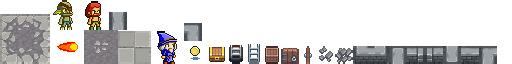
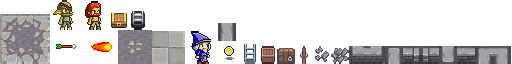
Attacks do damage but are not removed

Changed region(s): [[0.0938, 0.1562, 1.0, 1.0]]

diff --git a/core/src/com/mygdx/game/attacks/AttackEnemy.java b/core/src/com/mygdx/game/attacks/AttackEnemy.java
@@ -1,0 +1,123 @@
+package com.mygdx.game.attacks;
+
+import com.badlogic.gdx.graphics.g2d.SpriteBatch;
+import com.badlogic.gdx.graphics.g2d.TextureRegion;
+import com.badlogic.gdx.math.Vector2;
+import com.badlogic.gdx.physics.box2d.BodyDef;
+import com.badlogic.gdx.physics.box2d.CircleShape;
+import com.badlogic.gdx.physics.box2d.FixtureDef;
+import com.badlogic.gdx.physics.box2d.BodyDef.BodyType;
+import com.mygdx.game.WorldController;
+import com.mygdx.game.objects.AbstractGameObject;
+import com.mygdx.game.objects.EnemyRanged;
+import com.mygdx.game.utils.Constants;
+
+public class AttackEnemy extends AbstractGameObject
+{
+	private float tarX, tarY;
+	private EnemyRanged attacker;
+	private float rotation;
+	private Vector2 target;
+	
+	public AttackEnemy(TextureRegion img, float tarX, float tarY, EnemyRanged attacker) 
+	{
+		super(img);
+		body.getWorld().destroyBody(body);
+		
+		this.tarX = tarX - attacker.body.getPosition().x;
+		this.tarY = tarY - attacker.body.getPosition().y;
+		this.attacker = attacker;
+		
+		BodyDef bodyDef = new BodyDef();
+		bodyDef.type = BodyType.DynamicBody;
+		bodyDef.position.set(new Vector2(0, 0));
+		
+		body = WorldController.b2dWorld.createBody(bodyDef);
+		
+		CircleShape circle = new CircleShape();
+		circle.setRadius(.2f);
+		
+		FixtureDef fixtureDef = new FixtureDef();
+		fixtureDef.shape = circle;
+		fixtureDef.isSensor = true;
+		
+		body.createFixture(fixtureDef);
+		
+		body.setUserData(this);
+		
+		circle.dispose();
+		
+		rotation = findRotation();
+		target = findTarget();
+		
+		body.setTransform(attacker.body.getPosition(), 1);
+		
+		body.setLinearVelocity(target);
+	}
+
+	@Override
+	public void render(SpriteBatch batch)
+	{
+		batch.draw(reg, body.getPosition().x - Constants.OFFSET, body.getPosition().y - Constants.OFFSET, 0.5f, 0.5f, 1, 1, 1, 1, rotation, false);
+	}
+	
+	/**
+	 * Finds the angle of rotation for the projectile
+	 * @return
+	 */
+	private float findRotation()
+	{
+		//conditionals for all quadrants and axis
+		if(tarX > 0 && tarY > 0)
+		{
+			rotation = (float) Math.atan((tarY/tarX));
+			rotation = (float) ((rotation*180)/Math.PI);
+		}
+		else if(tarX < 0 && tarY > 0)
+		{
+			rotation = (float) Math.atan((tarY/tarX));
+			rotation = (float) ((rotation*180)/Math.PI);
+			rotation = 180 - Math.abs(rotation);
+		}
+		else if(tarX < 0 && tarY < 0)
+		{
+			rotation = (float) Math.atan((tarY/tarX));
+			rotation = (float) ((rotation*180)/Math.PI);
+			rotation = 180 + Math.abs(rotation);
+		}
+		else if(tarX > 0 && tarY < 0)
+		{
+			rotation = (float) Math.atan((tarY/tarX));
+			rotation = (float) ((rotation*180)/Math.PI);
+			rotation = 90 - Math.abs(rotation);
+			rotation = 270 + rotation;
+		}
+		else if(tarX > 0 && tarY == 0)
+			rotation = 0;
+		else if(tarX == 0 && tarY > 0)
+			rotation = 90;
+		else if(tarX < 0 && tarY == 0)
+			rotation =  180;
+		else if(tarX == 0 && tarY < 0)
+			rotation = 270;
+		
+		return (rotation - 90);
+	}
+	
+	/**
+	 * Finds the velocity vector for the projectile
+	 * @return
+	 */
+	private Vector2 findTarget() 
+	{
+		Vector2 tempVector = new Vector2(1,1);
+		tempVector.setLength(Constants.RANGEDSPEED); //TODO make so it can be changed when level difficulty increases
+		tempVector.setAngle(rotation + 90);
+		return tempVector;
+	}
+	
+	public float genDamage()
+	{
+		return Constants.RANGEDDAMAGE; //TODO make so it can be changed when level difficulty increases
+	}
+}

diff --git a/core/src/com/mygdx/game/WorldController.java b/core/src/com/mygdx/game/WorldController.java
@@ -18,6 +18,7 @@ import com.badlogic.gdx.physics.box2d.World;
 import com.badlogic.gdx.utils.Array;
 import com.badlogic.gdx.InputAdapter;
 import com.mygdx.game.attacks.Attack;
+import com.mygdx.game.attacks.AttackEnemy;
 import com.mygdx.game.objects.*;
 import com.mygdx.game.utils.CameraHelper;
 import com.mygdx.game.utils.Constants;
@@ -319,7 +320,7 @@ public class WorldController extends InputAdapter implements ContactListener
 		//collisions for player attacks
 		if(contact.getFixtureA().getBody().getUserData() == activeRoom.player || contact.getFixtureB().getBody().getUserData() == activeRoom.player)
 		{
-			
+			//Do nothing
 		}
 		else if(contact.getFixtureA().getBody().getUserData().getClass() == Attack.class && !contact.getFixtureB().isSensor())
 		{
@@ -368,6 +369,41 @@ public class WorldController extends InputAdapter implements ContactListener
 			enemy.touchingTarget = true;
 		}
 		
+		//collisions for enemy attacks
+		if(contact.getFixtureA().getBody().getUserData().getClass() == EnemyRanged.class || contact.getFixtureB().getBody().getUserData().getClass() == EnemyRanged.class || 
+				contact.getFixtureA().getBody().getUserData().getClass() == EnemyMelee.class || contact.getFixtureB().getBody().getUserData().getClass() == EnemyMelee.class)
+		{
+			//Do nothing
+		}
+		else if(contact.getFixtureA().getBody().getUserData().getClass() == AttackEnemy.class && !contact.getFixtureB().isSensor())
+		{
+			System.out.println("attack collision detected");
+			AttackEnemy attack = (AttackEnemy) contact.getFixtureA().getBody().getUserData();
+			
+			if(contact.getFixtureB().getBody().getUserData() == activeRoom.player)
+			{
+				System.out.println("Player hit");
+				activeRoom.player.takeHit(attack.genDamage());
+			}
+			
+//			activeRoom.removeAttack((Attack) contact.getFixtureA().getBody().getUserData());
+//			addToRemoval(contact.getFixtureA().getBody());
+		}
+		else if(contact.getFixtureB().getBody().getUserData().getClass() == AttackEnemy.class && !contact.getFixtureA().isSensor())
+		{
+			System.out.println("attack collision detected");
+			AttackEnemy attack = (AttackEnemy) contact.getFixtureB().getBody().getUserData();
+
+			if(contact.getFixtureA().getBody().getUserData() == activeRoom.player)
+			{
+				System.out.println("Player hit");
+				activeRoom.player.takeHit(attack.genDamage());
+			}
+			
+//			activeRoom.removeAttack((Attack) contact.getFixtureB().getBody().getUserData());
+//			addToRemoval(contact.getFixtureB().getBody());
+		}
+
 	}
 
 	@Override

diff --git a/core/src/com/mygdx/game/attacks/Attack.java b/core/src/com/mygdx/game/attacks/Attack.java
@@ -23,15 +23,10 @@ public class Attack extends AbstractGameObject
 	private float tarX;
 	private float tarY;
 	private Vector2 target;
-	public Class<?> attacker;
 	
 	/**
 	 * Creates the attack object
-	 * @param img
-	 * @param max
-	 * @param min
-	 * @param speed
-	 * @param radius
+	 * @param data
 	 * @param targetX
 	 * @param targetY
 	 * @param attacker
@@ -39,6 +34,8 @@ public class Attack extends AbstractGameObject
 	public Attack(AttackData data, float targetX, float targetY, Character attacker)
 	{
 		super(data.reg);
+		body.getWorld().destroyBody(body);
+		
 		tarX = targetX - Constants.CENTERX;
 		tarY = targetY - Constants.CENTERY;
 		tarY *= -1;
@@ -69,10 +66,12 @@ public class Attack extends AbstractGameObject
 		body.setTransform(attacker.body.getPosition(), 1);
 		
 		body.setLinearVelocity(target);
-		
-		this.attacker = attacker.getClass();
 	}
 	
+	/**
+	 * Finds the velocity vector for the projectile
+	 * @return
+	 */
 	private Vector2 findTarget() 
 	{
 		Vector2 tempVector = new Vector2(1,1);
@@ -87,6 +86,10 @@ public class Attack extends AbstractGameObject
 		batch.draw(reg, body.getPosition().x - Constants.OFFSET, body.getPosition().y - Constants.OFFSET, 0.5f, 0.5f, 1, 1, 1, 1, rotation, false);
 	}
 	
+	/**
+	 * Finds the angle of rotation for the projectile
+	 * @return
+	 */
 	private float findRotation()
 	{
 		//conditionals for all quadrants and axis

diff --git a/core/src/com/mygdx/game/Room.java b/core/src/com/mygdx/game/Room.java
@@ -5,6 +5,7 @@ import com.badlogic.gdx.graphics.Pixmap;
 import com.badlogic.gdx.graphics.g2d.SpriteBatch;
 import com.badlogic.gdx.utils.Array;
 import com.mygdx.game.attacks.Attack;
+import com.mygdx.game.attacks.AttackEnemy;
 import com.mygdx.game.objects.*;
 import com.mygdx.game.objects.Character;
 import com.mygdx.game.utils.Constants;
@@ -78,6 +79,7 @@ public class Room
 	public Array<EnemyMelee> meleeEnemies;
 	public Character player;
 	public Array<Attack> attacks;
+	public Array<AttackEnemy> enemyAttacks;
 	
 	//non-interactable textures
 	public Array<Sprite> grounds;
@@ -110,6 +112,7 @@ public class Room
 		rangedEnemies = new Array<EnemyRanged>();
 		meleeEnemies = new Array<EnemyMelee>();
 		attacks = new Array<Attack>();
+		enemyAttacks = new Array<AttackEnemy>();
 		
 		//non-interactable textures
 		grounds = new Array<Sprite>();
@@ -523,6 +526,9 @@ public class Room
 		
 		for(Attack attack : attacks)
 			attack.render(batch);
+	
+		for(AttackEnemy enemyAttack : enemyAttacks)
+			enemyAttack.render(batch);
 	}
 	
 	public void update(float deltaTime)
@@ -615,5 +621,10 @@ public class Room
 	{
 		enemiesToBeRemoved.add(enemy);
 		worldController.addToRemoval(enemy.body);
+	}
+
+	public void addEnemyAttack(AttackEnemy attackEnemy) 
+	{
+		enemyAttacks.add(attackEnemy);		
 	}
 }

diff --git a/core/src/com/mygdx/game/objects/EnemyRanged.java b/core/src/com/mygdx/game/objects/EnemyRanged.java
@@ -1,7 +1,12 @@
 package com.mygdx.game.objects;
 
 import com.badlogic.gdx.graphics.g2d.TextureRegion;
+import com.badlogic.gdx.physics.box2d.CircleShape;
+import com.badlogic.gdx.physics.box2d.FixtureDef;
+import com.mygdx.game.Assets;
 import com.mygdx.game.Room;
+import com.mygdx.game.attacks.AttackEnemy;
+import com.mygdx.game.utils.Constants;
 
 public class EnemyRanged extends Enemy
 {
@@ -9,12 +14,23 @@ public class EnemyRanged extends Enemy
 	public EnemyRanged(TextureRegion img, Room level)
 	{
 		super(img, level);
+		damage = Constants.RANGEDDAMAGE;
+		
+		CircleShape circle = new CircleShape();
+		circle.setRadius(Constants.RANGEDRANGE);
+		
+		FixtureDef fixtureDef = new FixtureDef();
+		fixtureDef.shape = circle;
+		fixtureDef.isSensor = true;
+		
+		body.createFixture(fixtureDef);
 	}
 
 	@Override
-	public void performAttack() {
-		// TODO Auto-generated method stub
-		
+	public void performAttack() 
+	{
+		level.addEnemyAttack(new AttackEnemy(Assets.instance.attacks.arrow, target.body.getPosition().x, target.body.getPosition().y, this));
+		cooldown = Constants.RANGEDCOOLDOWN;		
 	}
 
 }

diff --git a/core/src/com/mygdx/game/utils/Constants.java b/core/src/com/mygdx/game/utils/Constants.java
@@ -85,8 +85,10 @@ public class Constants
 	public static final float MELEEDAMAGE = 15;
 	public static final float MELEECOOLDOWN = 1;
 	
-	//Enemy Base Ranged damage and cooldown
+	//Enemy Base Ranged damage, range, speed, and cooldown
 	public static final float RANGEDDAMAGE = 8;
+	public static final float RANGEDRANGE = 5;
 	public static final float RANGEDCOOLDOWN = 1;
+	public static final float RANGEDSPEED = 10;
 
 }

diff --git a/core/src/com/mygdx/game/Assets.java b/core/src/com/mygdx/game/Assets.java
@@ -371,10 +371,12 @@ public static final String TAG = Assets.class.getName();
 	public class assetAttacks
 	{
 		public final AtlasRegion attack1;
+		public final AtlasRegion arrow;
 		
 		public assetAttacks(TextureAtlas atlas)
 		{
 			attack1 = atlas.findRegion("attack1");
+			arrow = atlas.findRegion("arrow");
 		}
 	}
 }
